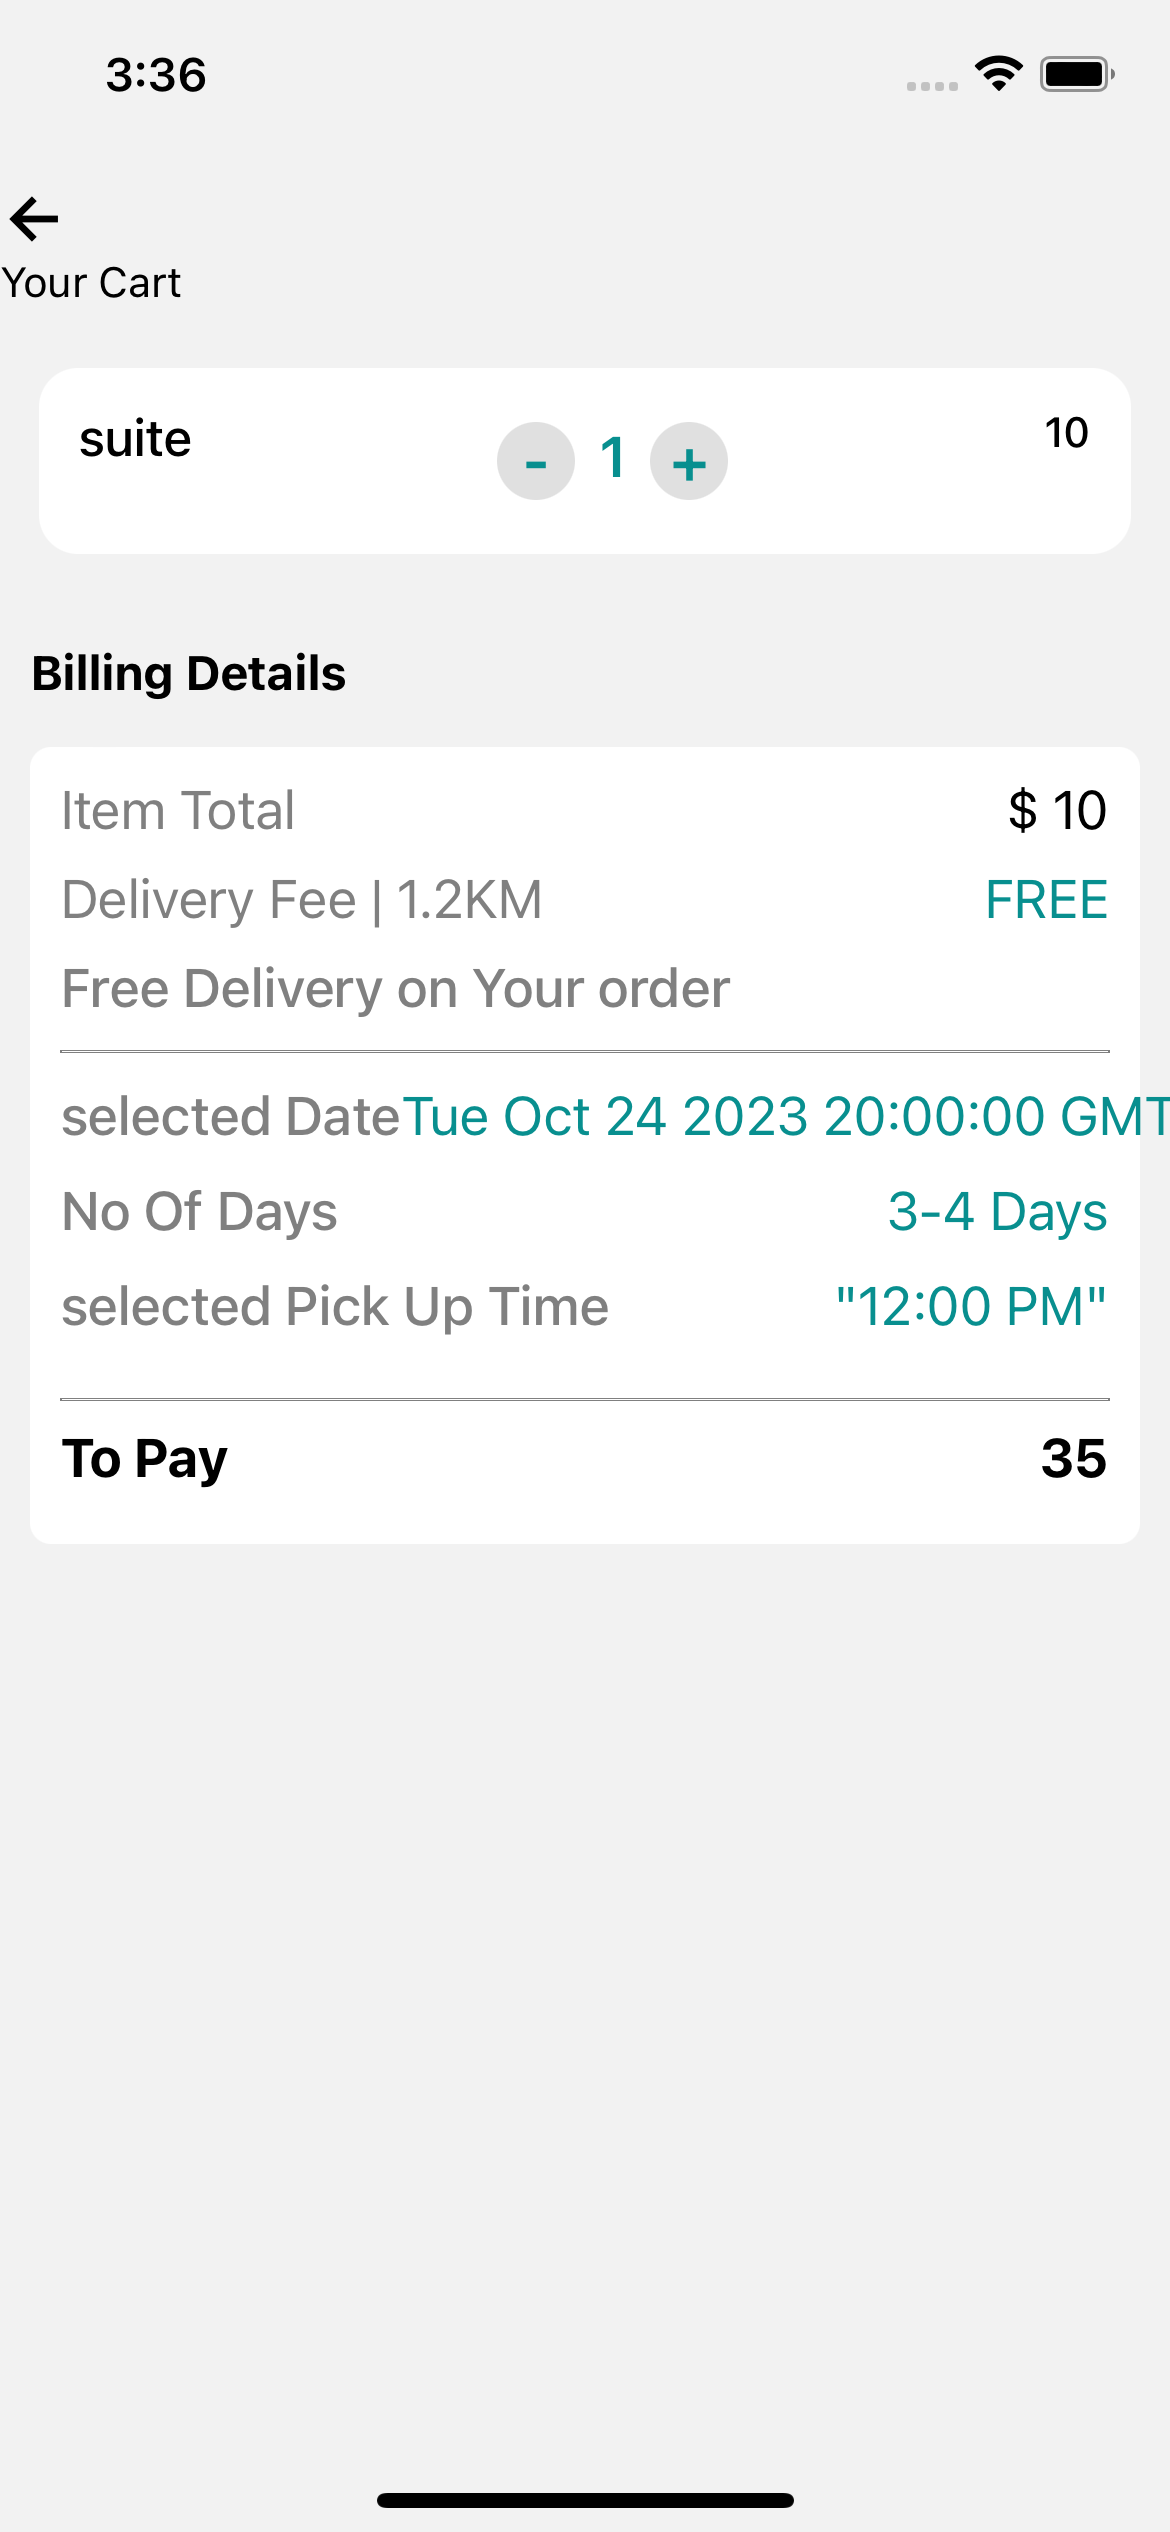
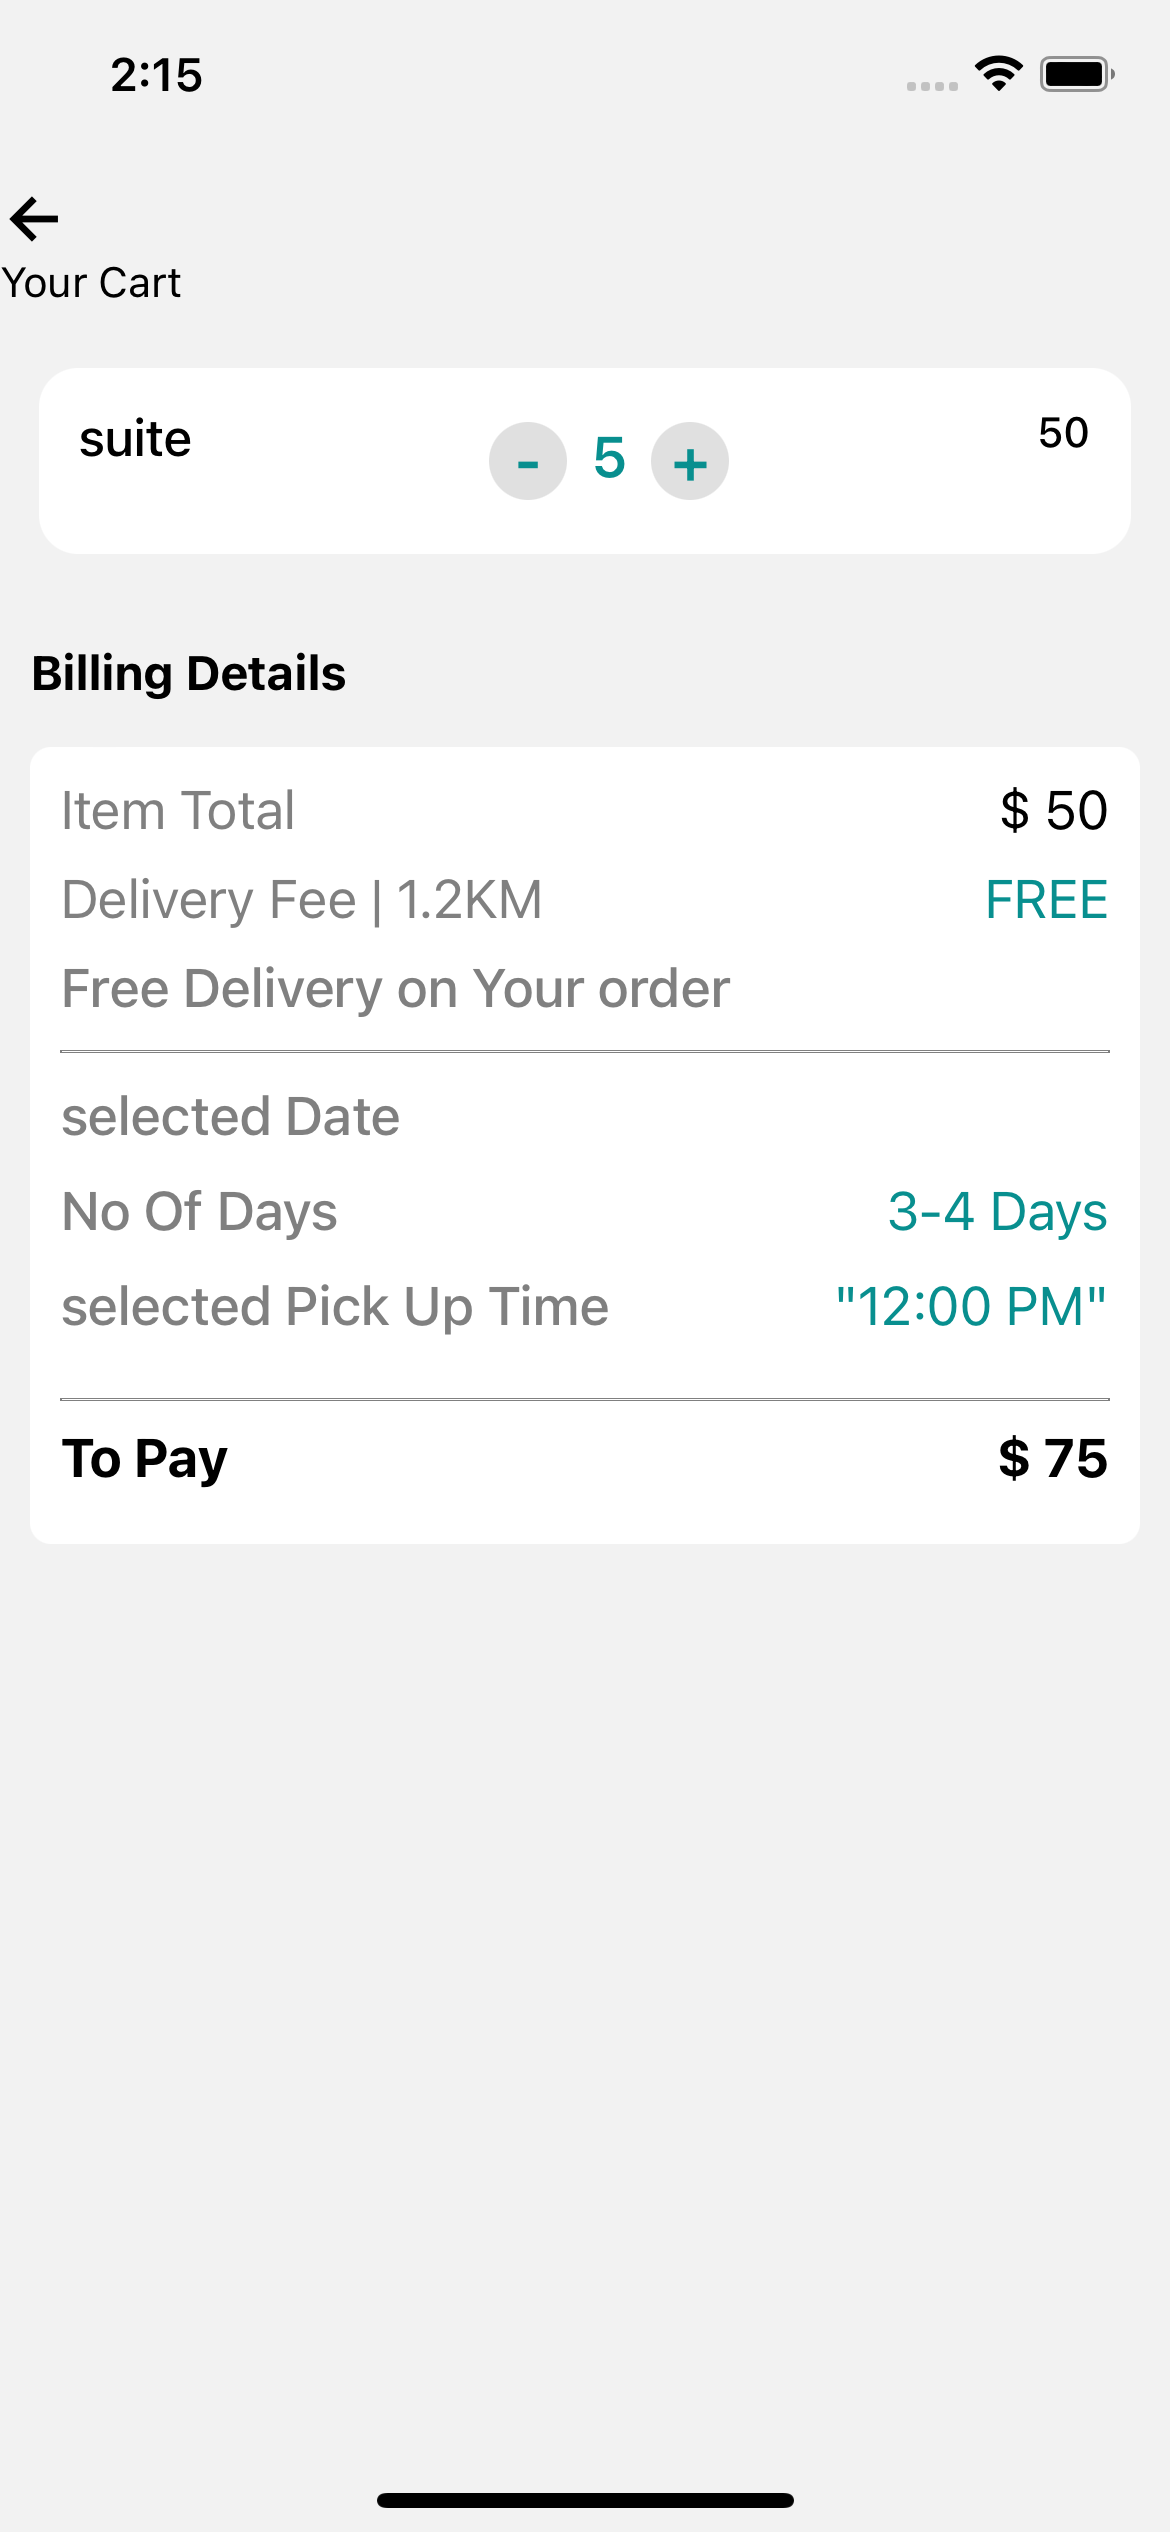
impl auth backend

diff --git a/laundry/screens/LoginScreen.js b/laundry/screens/LoginScreen.js
@@ -6,16 +6,59 @@ import {
   TextInput,
   KeyboardAvoidingView,
   Pressable,
+  ActivityIndicator,
 } from "react-native";
 import React from "react";
 import { useState } from "react";
-import { MaterialCommunityIcons , Fontisto} from "@expo/vector-icons";
+import { MaterialCommunityIcons, Fontisto } from "@expo/vector-icons";
 import { useNavigation } from "@react-navigation/native";
+import { signInWithEmailAndPassword } from "firebase/auth";
+import { auth } from "../firebase";
+import { useEffect } from "react";
 
 const LoginScreen = () => {
   const [email, setEmail] = useState();
   const [password, setPassword] = useState();
   const navigation = useNavigation();
+  const [isLoading, setIsLoading] = useState(false);
+
+  useEffect(() => {
+    setIsLoading(true);
+    const subcribe = auth.onAuthStateChanged((authUser) => {
+      if(!authUser){
+        setIsLoading(false);
+      }
+      if (authUser) {
+        navigation.navigate("Home");
+      }
+    });
+    return subcribe;
+  }, []);
+  const login = () => {
+    if (email === "" && password === "") {
+      Alert.alert(
+        "Invalid login information",
+        "Please fill the form",
+        [
+          {
+            text: "Cancel",
+            onPress: () => console.log("Cancel Pressed"),
+            style: "cancel",
+          },
+          { text: "OK", onPress: () => console.log("OK Pressed") },
+        ],
+        { cancelable: false }
+      );
+    } else {
+      signInWithEmailAndPassword(auth, email, password).then(
+        (userCredential) => {
+          const user = userCredential.user;
+        }
+      ).catch((error) => {
+        console.log("error", error);
+      });
+    }
+  };
   return (
     <SafeAreaView
       style={{
@@ -25,6 +68,12 @@ const LoginScreen = () => {
         backgroundColor: "white",
       }}
     >
+       {isLoading ? (
+        <View style={{alignItems:"center", justifyContent:"center", flexDirection:"row"}}>
+          <Text style={{fontSize:22, fontWeight:"500"}}> Loading </Text>
+          <ActivityIndicator size="large" color="bleu"/>
+        </View>
+       ): 
       <KeyboardAvoidingView>
         <View
           style={{
@@ -33,9 +82,7 @@ const LoginScreen = () => {
             marginTop: 100,
           }}
         >
-          <Text style={{ fontSize: 20, color: "", fontWeight: "bold" }}>
-            Sign In
-          </Text>
+          <Text style={{ fontSize: 20, fontWeight: "bold" }}>Sign In</Text>
           <Text style={{ fontSize: 18, marginTop: 8, fontWeight: "600" }}>
             Sign In to your account
           </Text>
@@ -81,6 +128,7 @@ const LoginScreen = () => {
             />
           </View>
           <Pressable
+            onPress={() => login()}
             style={{
               width: 200,
               backgroundColor: "#318CEF",
@@ -91,14 +139,29 @@ const LoginScreen = () => {
               marginRight: "auto",
             }}
           >
-            <Text style={{fontSize:18, textAlign:"center", color:"white"}}> Login </Text>
+            <Text style={{ fontSize: 18, textAlign: "center", color: "white" }}>
+              Login
+            </Text>
           </Pressable>
-          <Pressable style={{marginTop:3}} onPress={()=> navigation.navigate("Register")}>
-
-            <Text style={{fontSize:12, textAlign:"center", color:"gray", fontWeight:"450", padding:10}}> Don't have an account? Sign up</Text>
+          <Pressable
+            style={{ marginTop: 3 }}
+            onPress={() => navigation.navigate("Register")}
+          >
+            <Text
+              style={{
+                fontSize: 12,
+                textAlign: "center",
+                color: "gray",
+                fontWeight: "500",
+                padding: 10,
+              }}
+            >
+              Don't have an account? Sign up
+            </Text>
           </Pressable>
         </View>
       </KeyboardAvoidingView>
+      }
     </SafeAreaView>
   );
 };

diff --git a/laundry/components/Services.js b/laundry/components/Services.js
@@ -7,13 +7,13 @@ import {
   Image,
 } from "react-native";
 import React from "react";
-const handWatch =  require("../assets/hand-watch-icon.png");
-const washIron =  require("../assets/wash-iron-icon.png");
-const iron =  require("../assets/iron.png");
-const washing =  require("../assets/icon.png");
-const cleaning =  require("../assets/cleaning-icon.png");
-const laundryIcon =  require("../assets/laundry-icon.png");
-const delivery =  require("../assets/bike-driver-icon.png");
+const handWatch = require("../assets/hand-watch-icon.png");
+const washIron = require("../assets/wash-iron-icon.png");
+const iron = require("../assets/iron.png");
+const washing = require("../assets/icon.png");
+const cleaning = require("../assets/cleaning-icon.png");
+const laundryIcon = require("../assets/laundry-icon.png");
+const delivery = require("../assets/bike-driver-icon.png");
 
 export default Services = () => {
   const services = [
@@ -49,24 +49,33 @@ export default Services = () => {
     },
     {
       id: "13",
-      image:  cleaning,
+      image: cleaning,
       name: "Cleaning",
     },
-   
   ];
 
   return (
-    <View style={{padding:10}}>
-      <Text style={{fontSize:16, fontWeight:"500", marginBottom:6}}> Our Services</Text>
+    <View style={{ padding: 10 }}>
+      <Text style={{ fontSize: 16, fontWeight: "500", marginBottom: 6 }}>
+        {" "}
+        Our Services
+      </Text>
       <ScrollView horizontal showsHorizontalScrollIndicator={false}>
         {services.map((service, index) => (
-          <Pressable key={index} style={{alignItems:"center", padding:15, backgroundColor:"white", borderRadius:7}}>
-            <Image
-              style={{ width: 70, height: 70 }}
-              source={  service.image }
-            />
-            <Text style={{textAlign:"center", marginTop:8}}>{service.name}</Text>            
-          </Pressable>          
+          <Pressable
+            key={index}
+            style={{
+              alignItems: "center",
+              padding: 15,
+              backgroundColor: "white",
+              borderRadius: 7,
+            }}
+          >
+            <Image style={{ width: 70, height: 70 }} source={service.image} />
+            <Text style={{ textAlign: "center", marginTop: 8 }}>
+              {service.name}
+            </Text>
+          </Pressable>
         ))}
       </ScrollView>
     </View>

diff --git a/laundry/screens/HomeScreen.js b/laundry/screens/HomeScreen.js
@@ -21,7 +21,6 @@ import { useDispatch, useSelector } from "react-redux";
 import { getProducts } from "../ProductReducer";
 import { useNavigation } from "@react-navigation/native";
 
-
 const HomeScreen = () => {
   const cart = useSelector((state) => state.cart.cart);
   const product = useSelector((state) => state.product.product);
@@ -137,10 +136,10 @@ const HomeScreen = () => {
           <MaterialIcons name="search" size={24} color="#fd5c63" />
         </View>
         {/* image slider  */}
-        <ImageSlider/>
+        <ImageSlider />
 
         {/* Services  <Services /> */}
-        <Services/>
+        <Services />
 
         {/*  */}
         {product &&
@@ -159,11 +158,18 @@ const HomeScreen = () => {
           }}
         >
           <View>
-            <Text style={{ fontSize:17, fontWeight:"500", color:"white", }}>{cart.length} items |  $ {total}</Text>
-            <Text style={{ fontSize:15, fontWeight:"400", color:"white", }}>extra charges migth apply</Text>
+            <Text style={{ fontSize: 17, fontWeight: "500", color: "white" }}>
+              {cart.length} items | $ {total}
+            </Text>
+            <Text style={{ fontSize: 15, fontWeight: "400", color: "white" }}>
+              extra charges migth apply
+            </Text>
           </View>
-          <Pressable onPress={()=> navigation.navigate("Pickup")}>
-            <Text style={{ fontSize:16, fontWeight:"600", color:"white", }}> Proceed to pickup</Text>
+          <Pressable onPress={() => navigation.navigate("Pickup")}>
+            <Text style={{ fontSize: 16, fontWeight: "600", color: "white" }}>
+              {" "}
+              Proceed to pickup
+            </Text>
           </Pressable>
         </Pressable>
       )}

diff --git a/laundry/screens/RegisterScreen.js b/laundry/screens/RegisterScreen.js
@@ -16,9 +16,9 @@ import {
   MaterialCommunityIcons,
   Fontisto,
 } from "@expo/vector-icons";
-import {createUserWithEmailAndPassword} from "firebase/auth";
+import { createUserWithEmailAndPassword } from "firebase/auth";
 import { auth, db } from "../firebase";
-import {setDoc, doc} from "firebase/firestore";
+import { setDoc, doc } from "firebase/firestore";
 
 const RegisterScreen = () => {
   const [email, setEmail] = useState();
@@ -41,19 +41,19 @@ const RegisterScreen = () => {
         { cancelable: false }
       );
     } else {
-        console.log("register");
-        createUserWithEmailAndPassword(auth, email, password).then((userCredentials) => {
-            console.log(userCredentials);
-            const UserUuid = auth.currentUser.uid;
-            const userEmail = userCredentials._tokenResponse.email;
-            //set user
-            setDoc(doc(db, "users",`${UserUuid}`), {
-                email: userEmail,
-                phone: phone,
-
-            })
+      console.log("register");
+      createUserWithEmailAndPassword(auth, email, password).then(
+        (userCredentials) => {
+          console.log(userCredentials);
+          const UserUuid = auth.currentUser.uid;
+          const userEmail = userCredentials._tokenResponse.email;
+          //set user
+          setDoc(doc(db, "users", `${UserUuid}`), {
+            email: userEmail,
+            phone: phone,
+          });
         }
-        );
+      );
     }
   };
 

diff --git a/laundry/screens/CartScreen.js b/laundry/screens/CartScreen.js
@@ -231,7 +231,7 @@ const CartScreen = () => {
                       color: "#088F8F",
                     }}
                   >
-                    {route.params.pickUpDate}
+                    {/*route.params.pickUpDate*/}
                   </Text>
                 </View>
 
@@ -304,7 +304,7 @@ const CartScreen = () => {
                     To Pay
                   </Text>
                   <Text style={{ fontSize: 18, fontWeight: "bold" }}>
-                    {total + 25}
+                    $ {total + 25}
                   </Text>
                 </View>
               </View>

diff --git a/laundry/CartReducer.js b/laundry/CartReducer.js
@@ -11,7 +11,6 @@ export const CartSlice = createSlice({
             if (itemPresent){
                 itemPresent.quantity++;
             }else{
-                console.log(action.payload)
                 state.cart.push({...action.payload, quantity:1});
             }
         },

diff --git a/laundry/StackNavigator.js b/laundry/StackNavigator.js
@@ -17,7 +17,6 @@ const StackNavigator = () => {
           component={LoginScreen}
           options={{ headerShown: false }}
         />
-        
         <Stack.Screen
           name="Home"
           component={HomeScreen}
